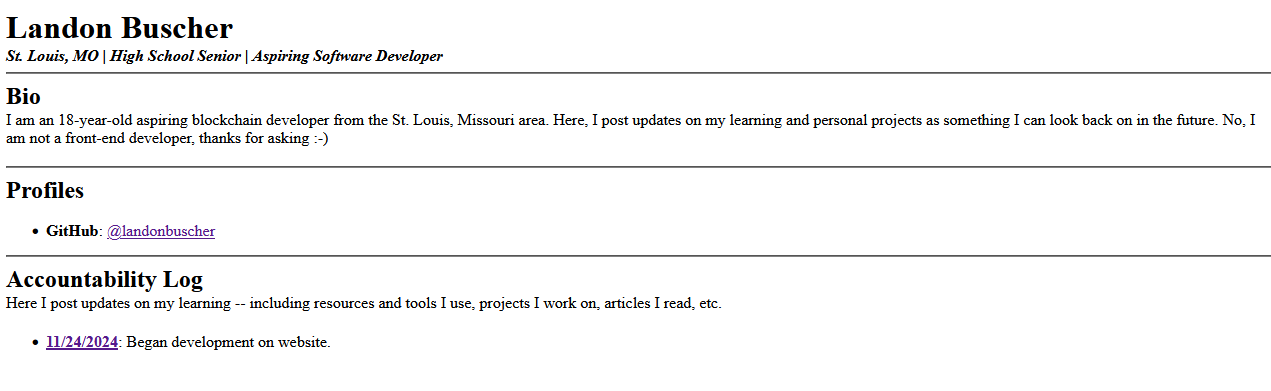
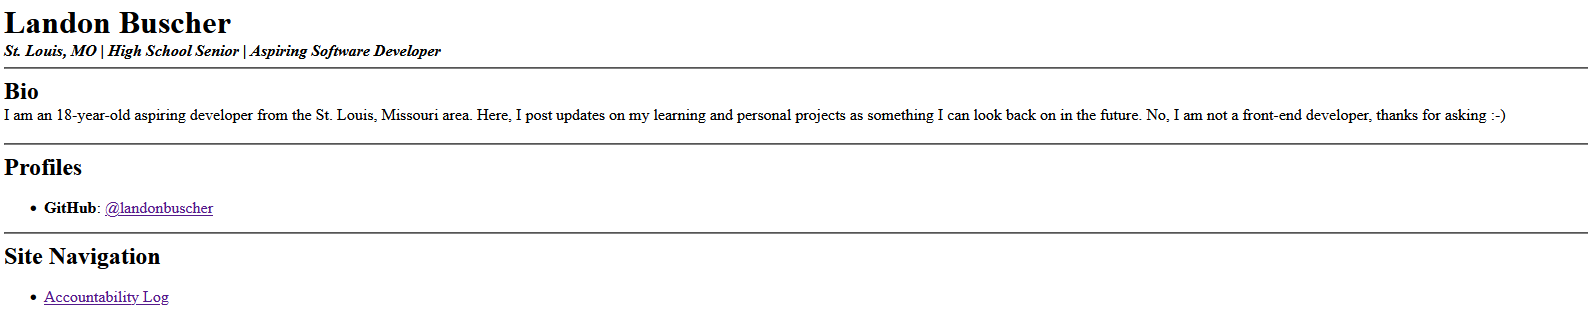
Restructuring

diff --git a/AccountabilityLog/11-24-2024.html b/AccountabilityLog/11-24-2024.html
@@ -11,16 +11,20 @@
 				margin: 0 0 20px 0;
 			}
 			img {
-				width: 50%;
 				border-style: outset;
 			}
 		</style>
-		<p><a href="../index.html"> &lt&lt Return home</a></p>
+		<p><a href="../accountability.html"> &lt&lt Back</a></p>
 		<h1>November 24th, 2024</h1>
+		<p><i>As of writing, $BTC is currently at $98215.75.</i></p>
+		<img style="width: 5%;" src="../Media/bitcoin_space.gif" />
 		<hr>
-		<p>I made some progress. Like this website, for example! Who needs a front end anyway? 
-			<br>I have decided to host this portfolio on GitHub Pages for simplicity and cost effectiveness. I have no need for anything beyond a static website.</p>
+		<p>I made some progress. Like this website, for example! Who needs a front end anyway?</p>
+		<p>I have decided to host this portfolio on GitHub Pages for simplicity and cost effectiveness. I have no need for anything beyond a static website.</p>
 		<img src="../Media/Prog1.png" />
 		<figcaption><i>Current website snapshot</i></figcaption>
+		<img src="../Media/Prog2.png" />
+		<figcaption><i>Current website snapshot</i></figcaption>
+		<hr>
 	</body>
 </html>

diff --git a/index.html b/index.html
@@ -1,6 +1,6 @@
 <html>
 	<head>
-		<title>Landon Buscher | Blockchain Developer</title>
+		<title>Landon Buscher | Student Portfolio</title>
 	</head>
 	<body>
 		<style>
@@ -23,10 +23,9 @@
 			<li><strong>GitHub</strong>: <a href="https://github.com/landonbuscher">@landonbuscher</a></li>
 		</ul>
 		<hr>
-		<h2>Accountability Log</h2>
-		<p>Here I post updates on my learning -- including resources and tools I use, projects I work on, articles I read, etc.</p>
+		<h2>Site Navigation</h2>
 		<ul>
-			<li><strong><a href="AccountabilityLog/11-24-2024.html">11/24/2024</a></strong>: Began development on website.</li>
+			<li><a href="accountability.html">Accountability Log</a></li>
 		</ul>
 	</body>
 </html>

diff --git a/accountability.html b/accountability.html
@@ -1,0 +1,22 @@
+<html>
+	<head>
+		<title>Landon Buscher | Accountability</title>
+	</head>
+	<body>
+		<style>
+			h1, h2, h3, h4, h5 {
+				margin: 0;
+			}
+			p {
+				margin: 0 0 20px 0;
+			}
+		</style>
+    <p><a href="../index.html"> &lt&lt Back</a></p>
+		<hr>
+		<h2>Accountability Log</h2>
+		<p>Here I post updates on my learning -- including resources and tools I use, projects I work on, articles I read, etc.</p>
+		<ul>
+			<li><strong><a href="AccountabilityLog/11-24-2024.html">11/24/2024</a></strong>: Began development on website.</li>
+		</ul>
+	</body>
+</html>
